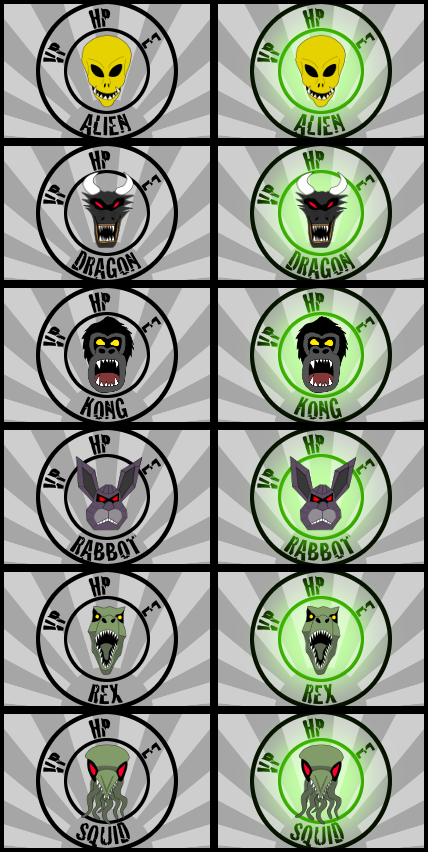
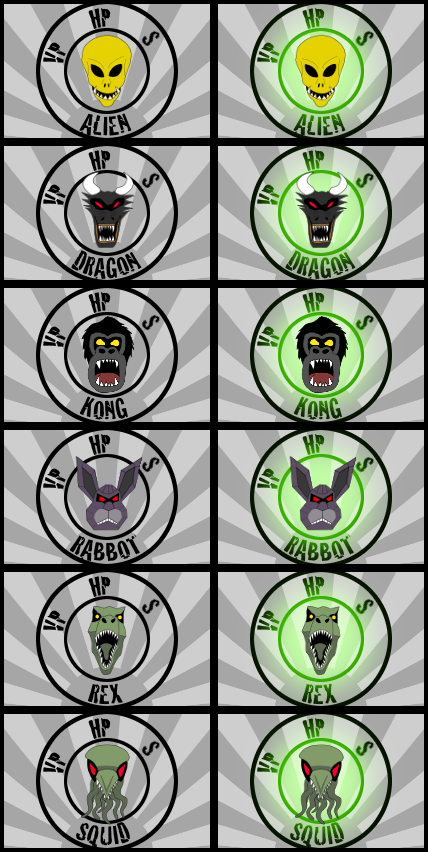
Just a few minor correction, mainly about language.  In particular I couldn't help but notice that "Snot Cube" had been misspelt.
I also added "inactive" images for the dice faces in an attempt to help players see when it was there turn but couldn't work out how to implement them.

diff --git a/production/ROKServerGame.js b/production/ROKServerGame.js
@@ -70,7 +70,7 @@ ROKServerGame.prototype.init = function(player) {
     this.player_id = 0;
     this.health = 10;
     this.victory_points = 0;
-    this.energy = 0;
+    this.snot = 0;
     this.in_kyoto_city = 0;
     this.in_kyoto_bay = 0;
     this.id = id;
@@ -86,7 +86,13 @@ ROKServerGame.prototype.init = function(player) {
       "Squid"
     ];
     this.name = monster_names[id - 1];
+
+//    this.cards = []   	// Cards owned by this monser
   }
+  
+//  Monster.prototype.number_of_rolls = function () {
+//    return 3;
+//  };
 }
 
 
@@ -336,7 +342,7 @@ ROKServerGame.prototype.endTurn = function() {
     next_monster_index = 0;
   }
   
-  log_message = this.monsters[this.monster_order[next_monster_index]].name + " begins their turn.";
+  log_message = this.monsters[this.monster_order[next_monster_index]].name + "'s turn.";
   this.updateState("turn_monster", this.monster_order[next_monster_index], log_message);
   this.updateState("next_input_from_monster", this.monster_order[next_monster_index]);
     
@@ -406,7 +412,7 @@ ROKServerGame.prototype.rollDice = function (player, keep_dice_ids) {
             
             log_message += this.dice[i].value + (i < 5 ? ", " : "");
 
-            if (this.roll_number != monster.number_of_rolls) {
+            if (this.roll_number < monster.number_of_rolls) {
               // If there are more rerolls, set dice to "r", except for kept
               // dice, which should be kept as "k".
               if (this.dice[i].state != 'k') {
@@ -468,7 +474,7 @@ ROKServerGame.prototype.resolveDice = function(player) {
   console.log('ROKServerGame.prototype.resolveDice');
   this.updateState("turn_phase", 'resolve');
   
-  this.resolveEnergyDice(player);
+  this.resolveSnotDice(player);
   this.resolveHealthDice(player);
   this.resolveVictoryPointDice(player);
   this.resolveAttackDice(player);
@@ -616,8 +622,6 @@ ROKServerGame.prototype.resolveAttackDice = function(player) {
       else {
         console.log("No room in Kyoto");
       }
-      
-      
     }
     
     if (this.checkWin()) {
@@ -716,8 +720,8 @@ ROKServerGame.prototype.checkWin = function() {
   // Check if anyone got to 20 victory points
   for (var i = 0; i < this.monster_order.length; i++) {
     var victory_points = this.monsters[this.monster_order[i]].victory_points;
-    if (victory_points > 19) {
-      log_message = this.monsters[this.monster_order[i]].name + " has won by getting to " + victory_points + " victory points.";
+    if (victory_points >= 20) {
+      log_message = this.monsters[this.monster_order[i]].name + " has taken a 'soft win' by getting to " + victory_points + " victory points.";
       this.updateState(false, false, log_message);
       log_message = this.monsters[this.monster_order[i]].name + " wins!";
       this.updateState("game_state", "over", log_message);
@@ -870,26 +874,25 @@ ROKServerGame.prototype.resolveYield = function(part_of_kyoto, yielding) {
  
 
 /**
- * Resolve energy dice.
+ * Resolve snot cubes.
  */
-ROKServerGame.prototype.resolveEnergyDice = function(player) {
-  console.log("ROKServerGame.prototype.resolveEnergyDice");
+ROKServerGame.prototype.resolveSnotDice = function(player) {
+  console.log("ROKServerGame.prototype.resolveSnotDice");
   // CARDS: take cards into account: "Friend of children", etc.
-  var additional_energy = 0;
+  var additional_snot = 0;
   for (var i = 0; i < this.dice.length; i++) {
-    if (this.dice[i].state == 'f' && this.dice[i].value == 'e') {
-      additional_energy++;
+    if (this.dice[i].state == 'f' && this.dice[i].value == 's') {
+      additional_snot++;
     }
   }
-  console.log('additional_energy: ' + additional_energy);
-  var old_energy = this.monsters[player.monster_id].energy;
-  var new_energy = old_energy + additional_energy;
-  if (old_energy != new_energy) {
-    var log_message = this.monsters[this.turn_monster].name + " gains " + additional_energy + " energy.";
-    this.updateState("monsters__" + player.monster_id + "__energy", new_energy, log_message);
+  console.log('additional_snot: ' + additional_snot);
+  var old_snot = this.monsters[player.monster_id].snot;
+  var new_snot = old_snot + additional_snot;
+  if (old_snot != new_snot) {
+    var log_message = this.monsters[this.turn_monster].name + " gains " + additional_snot + " snot cube" + ((additional_snot > 1) ? "s." : ".");
+    this.updateState("monsters__" + player.monster_id + "__snot", new_snot, log_message);
   }
 }
-
 
 /**
  * Resolve health dice.
@@ -1005,7 +1008,7 @@ ROKServerGame.prototype.selectMonster = function (player, selected_monster_id) {
           // Separately, because snapState() doesn't know what to do with log
           // messages.
           this.updateState(false, false, "The game begins.");
-          this.updateState(false, false, this.monsters[this.turn_monster].name + " begins their turn.");
+          this.updateState(false, false, this.monsters[this.turn_monster].name + "'s turn.");
           this.sendStateChanges();
         }
         else {

diff --git a/production/public/ROKClientGame.js b/production/public/ROKClientGame.js
@@ -177,7 +177,7 @@ ROKGame.prototype.initClient = function() {
       for (var i = 0; i < monster_ids.length; i++) {
         $('#monsters__' + data.monsters[monster_ids[i]].id + '__health').html(data.monsters[monster_ids[i]].health);
         $('#monsters__' + data.monsters[monster_ids[i]].id + '__victory_points').html(data.monsters[monster_ids[i]].victory_points);
-        $('#monsters__' + data.monsters[monster_ids[i]].id + '__energy').html(data.monsters[monster_ids[i]].energy);
+        $('#monsters__' + data.monsters[monster_ids[i]].id + '__snot').html(data.monsters[monster_ids[i]].snot);
         $('#monsters__' + data.monsters[monster_ids[i]].id + '__in_kyoto_city').html(data.monsters[monster_ids[i]].in_kyoto_city);
         $('#monsters__' + data.monsters[monster_ids[i]].id + '__in_kyoto_bay').html(data.monsters[monster_ids[i]].in_kyoto_bay);
         $('#monsters__' + data.monsters[monster_ids[i]].id + '__name').html(data.monsters[monster_ids[i]].name);
@@ -608,25 +608,25 @@ ROKGame.prototype.handle__dice__value = function(updates) {
 
   switch (update.value) {
     case "p":
-      $(elid).css('opacity', 0).html("").removeClass('heal energy').addClass('punch').animate({opacity: 1}, 300, function() {
+      $(elid).css('opacity', 0).html("").removeClass('heal snot').addClass('punch').animate({opacity: 1}, 300, function() {
         game.handleUpdates(updates);
       });    
       break;
       
     case "h":
-      $(elid).css('opacity', 0).html("").removeClass('punch energy').addClass('heal').animate({opacity: 1}, 300, function() {
+      $(elid).css('opacity', 0).html("").removeClass('punch snot').addClass('heal').animate({opacity: 1}, 300, function() {
         game.handleUpdates(updates);
       });    
       break;
       
-    case "e":
-      $(elid).css('opacity', 0).html("").removeClass('punch heal').addClass('energy').animate({opacity: 1}, 300, function() {
+    case "s":
+      $(elid).css('opacity', 0).html("").removeClass('punch heal').addClass('snot').animate({opacity: 1}, 300, function() {
         game.handleUpdates(updates);
       });    
       break;
       
     default:
-      $(elid).removeClass('punch heal energy').css('opacity', 0).html(update.value).animate({opacity: 1}, 300, function() {
+      $(elid).removeClass('punch heal snot').css('opacity', 0).html(update.value).animate({opacity: 1}, 300, function() {
         game.handleUpdates(updates);
       });    
       break;
@@ -654,10 +654,10 @@ ROKGame.prototype.handle__monsters__victory_points = function(updates) {
   });
 }
 
-ROKGame.prototype.handle__monsters__energy = function(updates) {
+ROKGame.prototype.handle__monsters__snot = function(updates) {
   var update = updates.shift();
-  game.monsters[update.id].energy = update.value;
-  var elid = "#monsters__" + update.id + "__energy";
+  game.monsters[update.id].snot = update.value;
+  var elid = "#monsters__" + update.id + "__snot";
   
   // Make sure the highlight stays centered on the numbers regardless of the 
   // number of numbers.

diff --git a/production/views/client.html b/production/views/client.html
@@ -144,8 +144,8 @@ $(document).ready(function() {
           <div class="monster_stats_bg"></div>
         </div>
         
-        <div class="monster_energy monster_stats">
-          <div id="monsters__1__energy">0</div>
+        <div class="monster_snot monster_stats">
+          <div id="monsters__1__snot">0</div>
           <div class="monster_stats_bg"></div>
         </div>
         
@@ -163,8 +163,8 @@ $(document).ready(function() {
           <div class="monster_stats_bg"></div>
         </div>
         
-        <div class="monster_energy monster_stats">
-          <div id="monsters__2__energy">0</div>
+        <div class="monster_snot monster_stats">
+          <div id="monsters__2__snot">0</div>
           <div class="monster_stats_bg"></div>
         </div>
         
@@ -182,8 +182,8 @@ $(document).ready(function() {
           <div class="monster_stats_bg"></div>
         </div>
         
-        <div class="monster_energy monster_stats">
-          <div id="monsters__3__energy">0</div>
+        <div class="monster_snot monster_stats">
+          <div id="monsters__3__snot">0</div>
           <div class="monster_stats_bg"></div>
         </div>
         
@@ -201,8 +201,8 @@ $(document).ready(function() {
           <div class="monster_stats_bg"></div>
         </div>
         
-        <div class="monster_energy monster_stats">
-          <div id="monsters__4__energy">0</div>
+        <div class="monster_snot monster_stats">
+          <div id="monsters__4__snot">0</div>
           <div class="monster_stats_bg"></div>
         </div>
         
@@ -220,8 +220,8 @@ $(document).ready(function() {
           <div class="monster_stats_bg"></div>
         </div>
         
-        <div class="monster_energy monster_stats">
-          <div id="monsters__5__energy">0</div>
+        <div class="monster_snot monster_stats">
+          <div id="monsters__5__snot">0</div>
           <div class="monster_stats_bg"></div>
         </div>
         
@@ -239,8 +239,8 @@ $(document).ready(function() {
           <div class="monster_stats_bg"></div>
         </div>
         
-        <div class="monster_energy monster_stats">
-          <div id="monsters__6__energy">0</div>
+        <div class="monster_snot monster_stats">
+          <div id="monsters__6__snot">0</div>
           <div class="monster_stats_bg"></div>
         </div>
         

diff --git a/production/public/ROKDevClientGame.js b/production/public/ROKDevClientGame.js
@@ -103,7 +103,7 @@ ROKGame.prototype.initClient = function() {
       for (var i = 0; i < monster_ids.length; i++) {
         $('#monsters__' + data.monsters[monster_ids[i]].id + '__health').html(data.monsters[monster_ids[i]].health);
         $('#monsters__' + data.monsters[monster_ids[i]].id + '__victory_points').html(data.monsters[monster_ids[i]].victory_points);
-        $('#monsters__' + data.monsters[monster_ids[i]].id + '__energy').html(data.monsters[monster_ids[i]].energy);
+        $('#monsters__' + data.monsters[monster_ids[i]].id + '__snot').html(data.monsters[monster_ids[i]].snot);
         $('#monsters__' + data.monsters[monster_ids[i]].id + '__in_kyoto_city').html(data.monsters[monster_ids[i]].in_kyoto_city);
         $('#monsters__' + data.monsters[monster_ids[i]].id + '__in_kyoto_bay').html(data.monsters[monster_ids[i]].in_kyoto_bay);
         $('#monsters__' + data.monsters[monster_ids[i]].id + '__name').html(data.monsters[monster_ids[i]].name);
@@ -291,7 +291,7 @@ ROKGame.prototype.initClient = function() {
         {tag: "th", id: "monsters__${index}__name"},
         {tag: "td", id: "monsters__${index}__health"},
         {tag: "td", id: "monsters__${index}__victory_points"},
-        {tag: "td", id: "monsters__${index}__energy"},
+        {tag: "td", id: "monsters__${index}__snot"},
         {tag: "td", id: "monsters__${index}__in_kyoto_city"},
         {tag: "td", id: "monsters__${index}__in_kyoto_bay"}
       ]}
@@ -457,10 +457,10 @@ ROKGame.prototype.handle__monsters__victory_points = function(updates) {
   });
 }
 
-ROKGame.prototype.handle__monsters__energy = function(updates) {
+ROKGame.prototype.handle__monsters__snot = function(updates) {
   var update = updates.shift();
-  game.monsters[update.id].energy = update.value;
-  var elid = "#monsters__" + update.id + "__energy";
+  game.monsters[update.id].snot = update.value;
+  var elid = "#monsters__" + update.id + "__snot";
   
   $(elid).css('backgroundColor', "green").html(update.value).animate({backgroundColor: "white"}, 500, function() {
     game.handleUpdates(updates);

diff --git a/production/public/rok.css b/production/public/rok.css
@@ -317,7 +317,7 @@ div.monster {
   -webkit-transform: rotate(-51deg);
 }
 
-.monster_energy {
+.monster_snot {
   top: 10px;
   left: 155px;
   /* Note the different origin settings for Chrome / Firefox */
@@ -420,14 +420,29 @@ div#dice div.punch {
   background-image: url('http://localhost:8080/punch45.png');
 }
 
+div#dice div.punchInactive {
+  background-color: none;
+  background-image: url('http://localhost:8080/punch45inactive.png');
+}
+
 div#dice div.heal {
   background-color: none;
   background-image: url('http://localhost:8080/heal45.png');
 }
 
-div#dice div.energy {
+div#dice div.healInactive {
   background-color: none;
-  background-image: url('http://localhost:8080/energy45.png');
+  background-image: url('http://localhost:8080/heal45inactive.png');
+}
+
+div#dice div.snot {
+  background-color: none;
+  background-image: url('http://localhost:8080/snot45.png');
+}
+
+div#dice div.snotInactive {
+  background-color: none;
+  background-image: url('http://localhost:8080/snot45inactive.png');
 }
 
 #roll_dice_button {

diff --git a/production/views/dev_client.html b/production/views/dev_client.html
@@ -143,7 +143,7 @@ $(document).ready(function() {
         <th></th>
         <th>health</th>
         <th>victory_points</th>
-        <th>energy</th>
+        <th>snot</th>
         <th>in_kyoto_city</th>
         <th>in_kyoto_bay</th>
       </tr>
@@ -154,7 +154,7 @@ $(document).ready(function() {
         <th></th>
         <th>health</th>
         <th>victory_points</th>
-        <th>energy</th>
+        <th>snot</th>
         <th>in_kyoto_city</th>
         <th>in_kyoto_bay</th>
       </tr>

diff --git a/production/public/ROKUtils.js b/production/public/ROKUtils.js
@@ -81,7 +81,7 @@ ROKUtils.prototype.dieRoll = function () {
     3,
     'p',
     'h',
-    'e'
+    's'
   ];
   var r = this.getRandomInt(0, 5);
   return faces[r];
